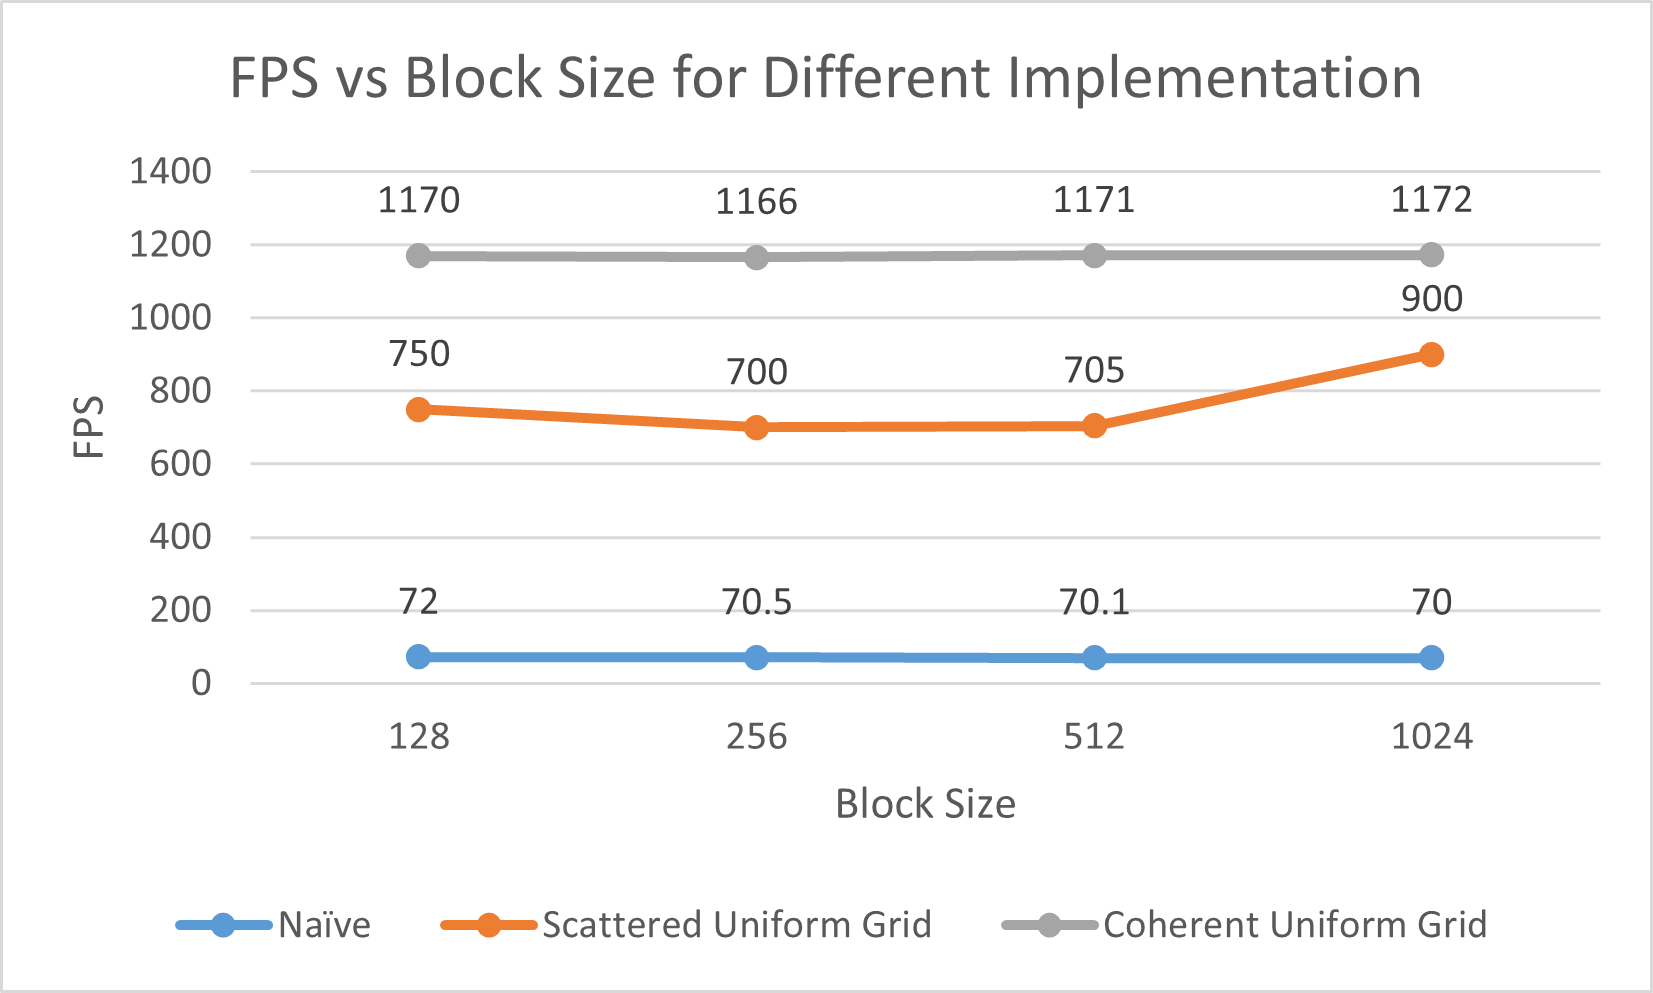
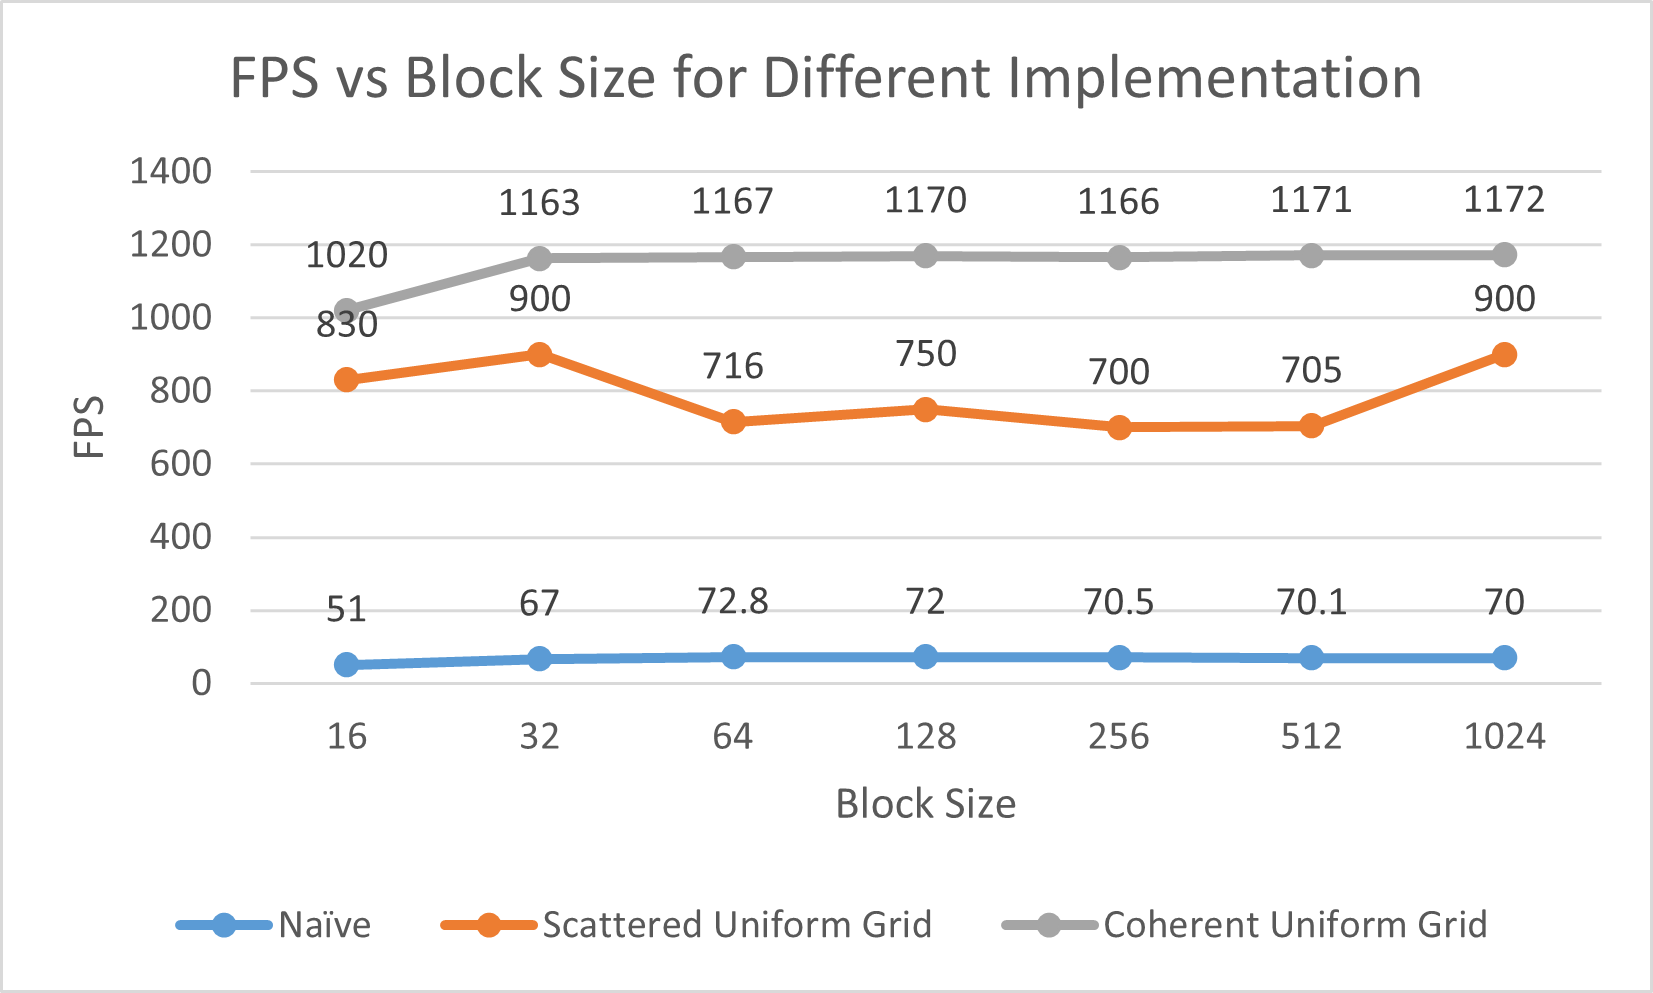
update performance analysis

diff --git a/README.md b/README.md
@@ -29,10 +29,12 @@ algorithm improves program run time.
 
 ![Blocksize](images/Blocksize.png)
 
-This graph above is obtained by keeping boid count constant at 10000 and varying block size. The graph shows that 
-increasing block size does not seem to affect FPS for any configuration. This is reasonable because changing the block size does not
-reduce or increase the total amount of computation required for the boid simulation. The only difference is how the threads are scheduled
-to execute on the GPU.
+This graph above is obtained by keeping boid count constant at 10000 and varying block size. The maximum block size is 1024, which is
+set by the GPU. The graph shows that increasing block size does not seem to affect FPS significantly for the naive method and the coherent uniform grid method. 
+This is reasonable because changing the block size does not reduce or increase the total amount of computation required for the boid simulation. 
+The only difference is how the threads are scheduled to execute on the GPU. For the scattered uniform grid method, the FPS
+peaks at blocksize of 32 and 1024. I don't have a good explanation execept that the combination of boid count and block size enables
+the program to fully saturate the computational resource of the GPU.
 
 The program experenced significant performance improvement when I changed from scattered uniform grid to coherent uniform grid.
 I did not expect this at first since coherent uniform grid involves an extra shuffling step for the velocity and position buffer.
